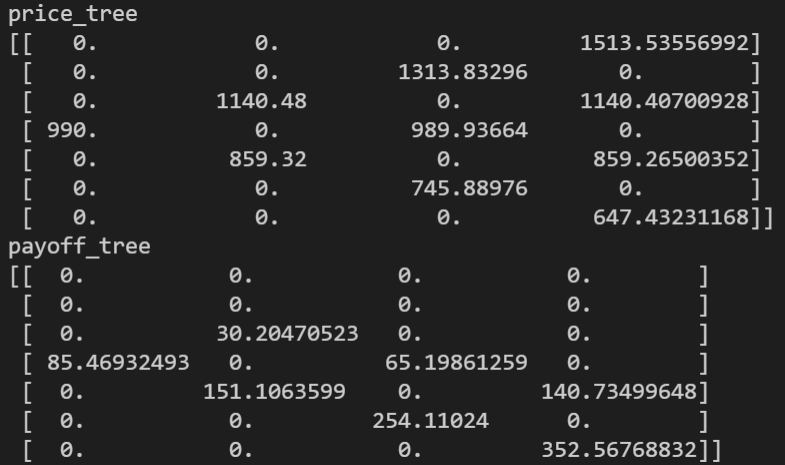
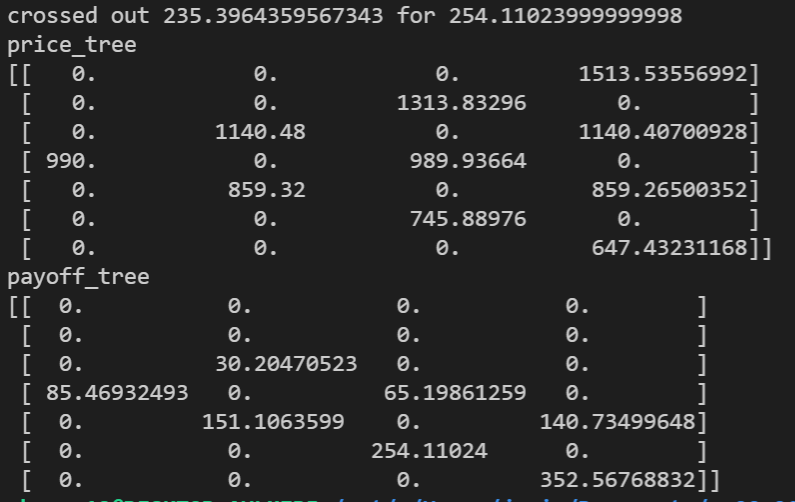
updated post-review

diff --git a/final/huangmichael_final.tex b/final/huangmichael_final.tex
@@ -119,7 +119,7 @@ discount = math.e ** (-0.05 * 0.5)
 s = 990
 k = 1000
 
-is_american = False
+is_american = True
 
 def main():
   price_tree = np.zeros((7, 4))
@@ -158,9 +158,10 @@ def main():
       
       if is_american:
         # replace as necessary in american case
-        if price_tree[j][i] != 0 and 
-        payoff_tree[j][i] < (k - price_tree[j][i]):
-          payoff_tree[j][i] = k - price_tree[j][i]
+        exercise = k - price_tree[j][i]
+        if price_tree[j][i] != 0 and payoff_tree[j][i] < exercise:
+          print("crossed out " + str(payoff_tree[j][i]) + " for " + str(exercise))
+          payoff_tree[j][i] = exercise
 
   # formula: discount * ((u_p * up_val) + (d_p * down_val))
 
@@ -174,6 +175,8 @@ if __name__ == "__main__":
   main()
 
 \end{verbatim}
+
+\newpage
 
 \subsection*{(a)}
 
@@ -214,14 +217,14 @@ All work was then automated in python. Note that we use $K$ rather than $X$ as t
   \includegraphics[width=120mm]{./2b.png}
 \end{figure}
 
-\newpage
-
 \subsection*{(c)}
 
-Suppose we chop the same time to expiration up into much smaller time steps for this binomial lattice, and we find the price for 149 time steps to 84, 150 time steps to be 85, and 151 time steps to be 86. What should we take as the option premium in this case? \\ \\
+% Suppose we chop the same time to expiration up into much smaller time steps for this binomial lattice, and we find the price for 149 time steps to 84, 150 time steps to be 85, and 151 time steps to be 86. What should we take as the option premium in this case? \\ \\
 
 % We note that for each time step greater, the value rises by 1. 
-We know that for a put, the option premium = $(X - S)^+ + \text{time value}$. We note that we are deep ITM, so we can say that $P^{AM} = X - S$ since we have time value of $0$, so all that is left is $X - S = 1000 - 990 = $ \framebox[1.1\width]{$\mathbf{\$ 10}$}. 
+% We know that for a put, the option premium = $(X - S)^+ + \text{time value}$. We note that we are deep ITM, so we can say that $P^{AM} = X - S$ since we have time value of $0$, so all that is left is $X - S = 1000 - 990 = $ \framebox[1.1\width]{$\mathbf{\$ 10}$}. 
+
+In class, we noted that at about 150 steps, we have an answer that is close enough for commercial purposes, and is a good average in between the given options. Therefore, \framebox[1.1\width]{$\mathbf{85}$} is likely a good option premium to take.
 
 \newpage
 }
@@ -262,7 +265,7 @@ print(call)
 
 \subsection*{(b)}
 
-By put-call parity with no dividend, we know that the American call option is always optimal to be exercised at expiry, we can say that it is the same price as the European call option, that is, \framebox[1.1\width]{$\mathbf{124.23224257130119}$}
+Via put-call parity with no dividend, we know that it is never optimal to exercise an American call option, i.e. it is best to close the position rather than exercise, which means that we can say that it has the same price as the European call option, that is, \framebox[1.1\width]{$\mathbf{124.23224257130119}$}
 
 \subsection*{(c)}
 

diff --git a/final-code/binomial.py b/final-code/binomial.py
@@ -10,7 +10,7 @@ discount = math.e ** (-0.05 * 0.5)
 s = 990
 k = 1000
 
-is_american = False
+is_american = True
 
 def main():
   price_tree = np.zeros((7, 4))
@@ -49,8 +49,10 @@ def main():
       
       if is_american:
         # replace as necessary in american case
-        if price_tree[j][i] != 0 and payoff_tree[j][i] < (k - price_tree[j][i]):
-          payoff_tree[j][i] = k - price_tree[j][i]
+        exercise = k - price_tree[j][i]
+        if price_tree[j][i] != 0 and payoff_tree[j][i] < exercise:
+          print("crossed out " + str(payoff_tree[j][i]) + " for " + str(exercise))
+          payoff_tree[j][i] = exercise
 
   # formula: discount * ((u_p * up_val) + (d_p * down_val))
 
